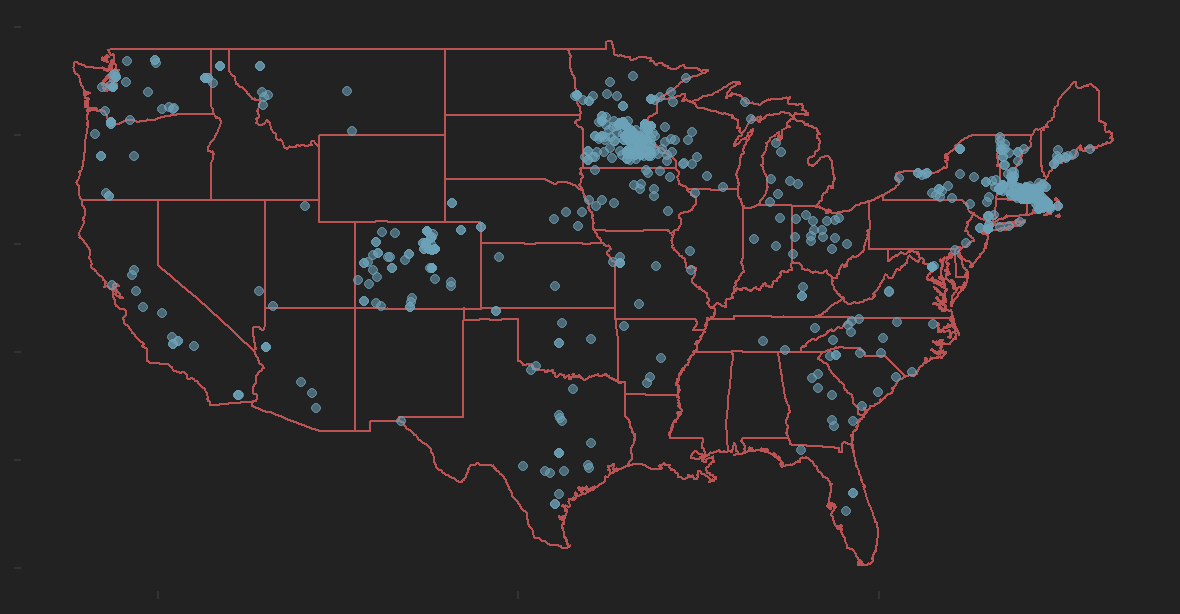
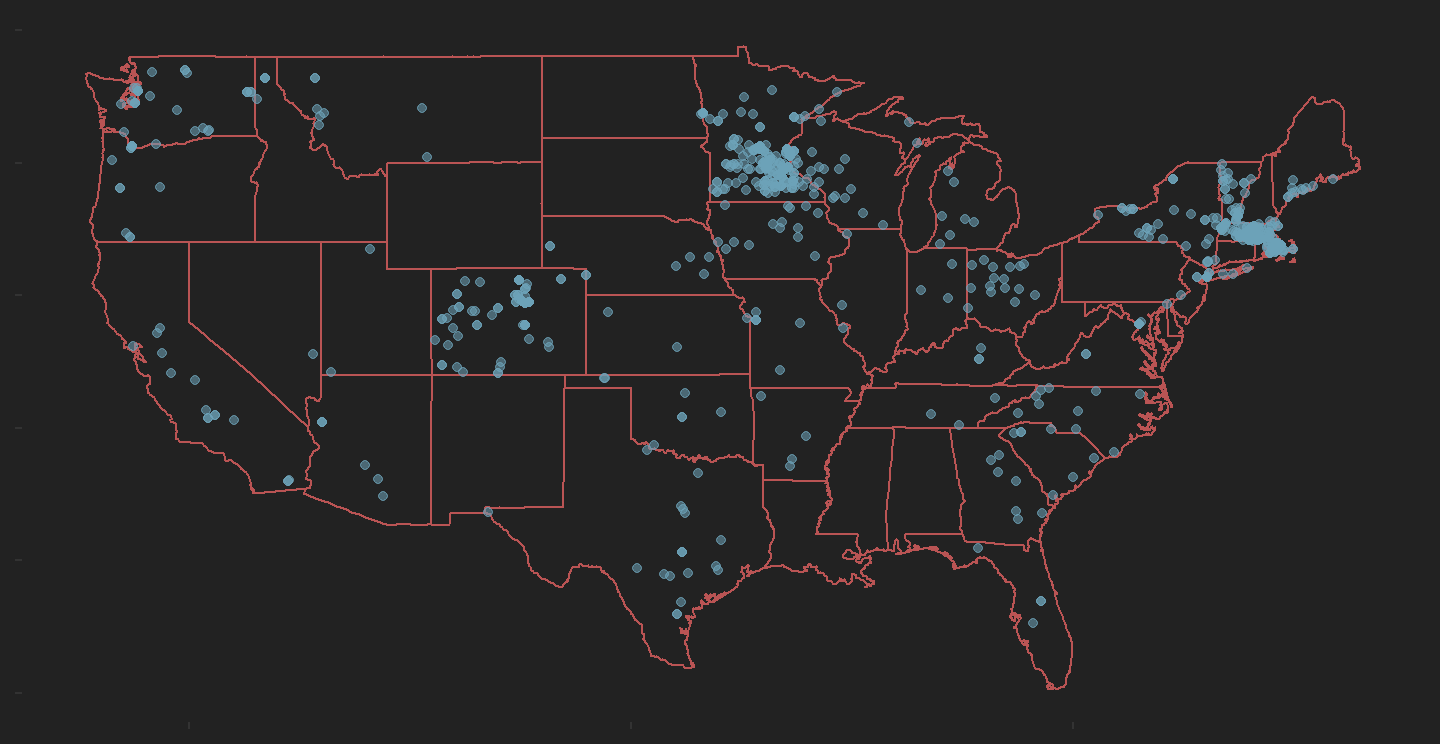
Commit

diff --git a/docs/index.html b/docs/index.html
@@ -567,15 +567,15 @@ plot3 &lt;- ggplot()+
 <h1>Results</h1>
 <div id="spatial-distibution-of-community-solar-installations---provided-by-nrel" class="section level3">
 <h3>Spatial Distibution of Community Solar Installations - Provided by NREL</h3>
-<p><img src="index_files/figure-html/unnamed-chunk-9-1.png" width="590.4" style="display: block; margin: auto;" /> <br> <br></p>
+<p><img src="index_files/figure-html/unnamed-chunk-9-1.png" width="720" style="display: block; margin: auto;" /> <br> <br></p>
 </div>
 <div id="spatial-distibution-of-community-solar-installations-w-incentives-shaded-per---provided-by-nrel-dsire-data" class="section level3">
 <h3>Spatial Distibution of Community Solar Installations w/ Incentives shaded per $ - Provided by NREL &amp; DSIRE data</h3>
-<p><img src="index_files/figure-html/unnamed-chunk-10-1.png" width="590.4" style="display: block; margin: auto;" /> <br> <br></p>
+<p><img src="index_files/figure-html/unnamed-chunk-10-1.png" width="720" style="display: block; margin: auto;" /> <br> <br></p>
 </div>
 <div id="spatial-distibution-of-community-solar-installations-w-incentives-shaded-per-quantity---provided-by-nrel-dsire-data" class="section level3">
 <h3>Spatial Distibution of Community Solar Installations w/ Incentives shaded per quantity - Provided by NREL &amp; DSIRE data</h3>
-<p><img src="index_files/figure-html/unnamed-chunk-11-1.png" width="590.4" style="display: block; margin: auto;" /></p>
+<p><img src="index_files/figure-html/unnamed-chunk-11-1.png" width="720" style="display: block; margin: auto;" /></p>
 <hr />
 </div>
 </div>
